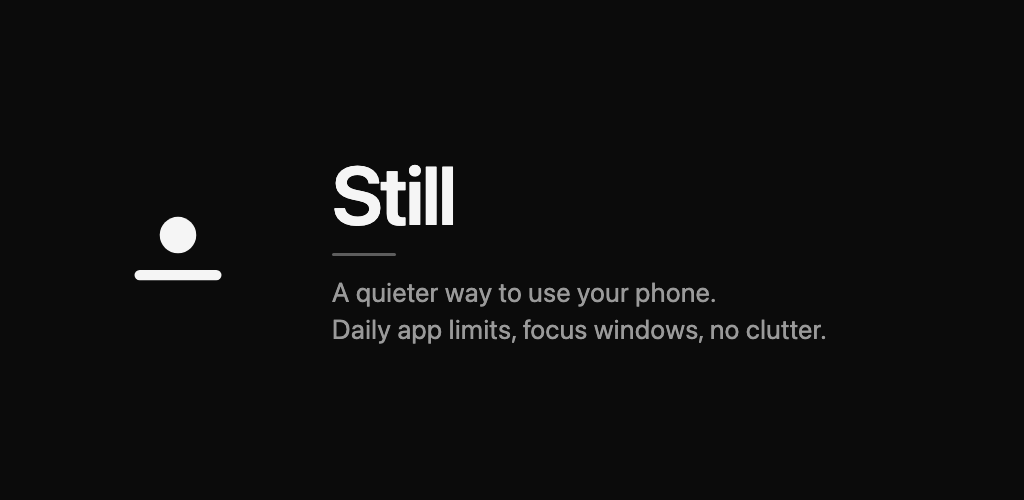
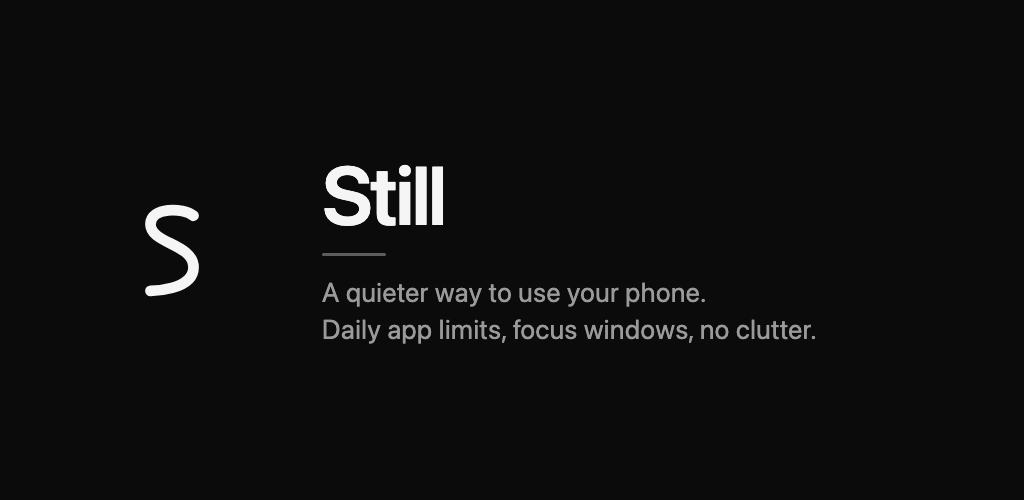
Use the S stroke as the Still mark
Replaces the dot-and-line mark with the chosen S stroke. The path spans
x 37.5-70.5 and y 25-83 including its 6.6 cap, centred on (54,54) so it
stays inside the 66dp safe zone on both circle and squircle masks.

The mark is tall and narrow, so the two sample-icon spots now fit it
instead of letting the painter's intrinsic size decide, and the missing
fillMaxSize import is added. Store icon and feature graphic regenerated
from the same geometry.

Changed region(s): [[0.3125, 0.57, 0.8125, 0.69], [0.3125, 0.33, 0.4688, 0.45], [0.125, 0.39, 0.2188, 0.6]]

diff --git a/app/src/main/java/com/raptrx/still/ui/home/components/MinimoSettingsItem.kt b/app/src/main/java/com/raptrx/still/ui/home/components/MinimoSettingsItem.kt
@@ -27,6 +27,7 @@ import androidx.compose.ui.draw.clip
 import androidx.compose.ui.draw.shadow
 import androidx.compose.ui.graphics.Color
 import androidx.compose.ui.graphics.Shadow
+import androidx.compose.ui.layout.ContentScale
 import androidx.compose.ui.res.painterResource
 import androidx.compose.ui.res.stringResource
 import androidx.compose.ui.text.style.TextOverflow
@@ -123,7 +124,12 @@ private fun StillAppIcon(size: Dp) {
         Image(
             painter = painterResource(R.drawable.ic_still_mark),
             contentDescription = null,
-            modifier = Modifier.fillMaxSize()
+            // Fit rather than fill: the mark is tall and narrow, so scaling it
+            // to the box would stretch the stroke.
+            contentScale = ContentScale.Fit,
+            modifier = Modifier
+                .fillMaxSize()
+                .padding(size * 0.22f)
         )
     }
 }

diff --git a/app/src/main/java/com/raptrx/still/ui/settings/customisation/components/AppSizeSlider.kt b/app/src/main/java/com/raptrx/still/ui/settings/customisation/components/AppSizeSlider.kt
@@ -4,6 +4,7 @@ import androidx.compose.foundation.background
 import androidx.compose.foundation.layout.Box
 import androidx.compose.foundation.layout.Row
 import androidx.compose.foundation.layout.Spacer
+import androidx.compose.foundation.layout.fillMaxSize
 import androidx.compose.foundation.layout.fillMaxWidth
 import androidx.compose.foundation.layout.height
 import androidx.compose.foundation.layout.padding
@@ -161,6 +162,9 @@ private fun SampleAppIcon(size: Dp) {
         Icon(
             painter = painterResource(R.drawable.ic_still_mark),
             contentDescription = null,
+            // The mark is taller than it is wide, so fit it inside the icon box
+            // rather than letting the painter's intrinsic size decide.
+            modifier = Modifier.fillMaxSize(0.55f),
             tint = MaterialTheme.colorScheme.onPrimaryContainer
         )
     }
